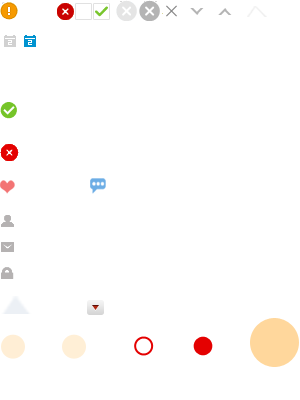
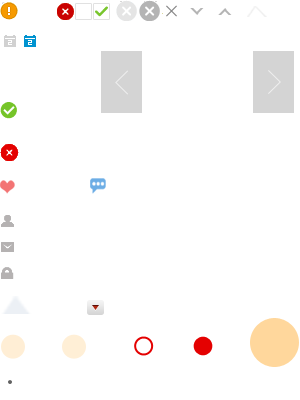
修改登录

Changed region(s): [[0.84, 0.12, 0.99, 0.3], [0.33, 0.12, 0.48, 0.3], [0.03, 0.93, 0.06, 0.96]]

diff --git a/public/assets/css/style.css b/public/assets/css/style.css
@@ -5,7 +5,7 @@
 .logo-wrapper{
     width: 100%;
     overflow: hidden;
-    background: #F1F1F1;
+    background: #f5f7fa;
     padding-top: 30px;
     margin: 0 auto 20px;
     height: 70px;
@@ -13,19 +13,35 @@
 .logo-wrapper .logo{
     width: 980px;
 }
+.login-bd{
+    width: 920px;
+    padding: 0px 30px 30px;
+    background: #ffffff;
+    overflow: hidden;
+}
+.login-hd{
+    width: 920px;
+    padding:20px 30px 10px;
+    background: #ffffff;
+    overflow: hidden;
+    font-size: 14px;
+}
+.login-hd span{
+    margin: 0 5px;
+}
 .left-side{
     width: 500px;
     height: 310px;
 }
 .login-form{
     width: 300px;
-    height: 310px;
+    min-height: 310px;
     border: 1px solid #EEEEEE;
     background: #FFFFFF;
 }
 .login-form .loginBar{
     overflow: hidden;
-     margin:20px ;
+     margin:20px 20px 0 ;
  }
 .login-form .title{
     background: #AF2812;
@@ -50,14 +66,34 @@
     display: inline-block;
     line-height: 24px;
 }
+.btn-l{
+    width: 125px;
+    height: 25px;
+    line-height: 25px;
+    border-radius: 3px;
+    text-align: center;
+    color: #ffffff;
+    background: #af2812;
+}
+.btn-r{
+    width: 125px;
+    height: 25px;
+    line-height: 25px;
+    border-radius: 3px;
+    text-align: center;
+    color: #333;
+    display: inline-block;
+    background: #d9d9d9;
+}
 .register-box{
     overflow: hidden;
-    padding: 20px;
+    padding: 15px;
     border-top: 1px solid #dddddd;
+    margin-top: 15px;
 }
 .register-box .signup{
     font-size: 14px;
-    color: #47AFFF;
+    color: #0137ff;
 }
 .register-box .registered{
     margin-top: 20px;
@@ -255,6 +291,7 @@
     float: left;
     margin-left: 10px;
     margin-bottom: 10px;
+    height: 316px;
 }
 .home-c dl dd .img-box{
     width: 130px;

diff --git a/public/assets/css/common.css b/public/assets/css/common.css
@@ -2,10 +2,10 @@
 body{
     font:12px/1.231 "微软雅黑","宋体",Helvetica,Arial,sans-serif;
     color: #333;
-    background: #F1F1F1;
+    background: #f5f7fa;
 }
 .b{
-    color:#379BE9;
+    color:#0137ff;
 }
 .r{
     color: #c10101;
@@ -268,8 +268,8 @@ textarea:focus,input:focus{
     font-size: 12px;
 }
 .btn-lg{
-    padding:8px 15px;
-    font-size: 14px;
+    padding:0px 33px;
+    font-size: 16px;
 }
 .btn-topUp {
     width: 90px;
@@ -407,10 +407,10 @@ table td p.tl{
     background-position: -44px -7px;
 }
 .icon-horn{
-    width: 19px;
+    width: 25px;
     height: 19px;
     vertical-align: middle;
-    background-position: -47px -44px;
+    background-position: -47px -42px;
 }
 .icon-phone{
      width: 22px;
@@ -686,6 +686,11 @@ table td p.tl{
     padding: 0 10px;
 }
 .progress-side dd{
+    width: 100%;
+    overflow: hidden;
+    margin-bottom: 8px;
+}
+.progress-side li{
     width: 100%;
     overflow: hidden;
     margin-bottom: 8px;
@@ -981,12 +986,9 @@ table td p.tl{
 .footer-wrapper{
     overflow: hidden;
     margin-top: 20px;
-    background: #fff;
 }
 .help-bg{
     width: 100%;
-    border-bottom: 2px solid #eeeeee;
-    border-top: 2px solid #eeeeee;
 }
 .footer-help {
     overflow: hidden;

diff --git a/public/assets/css/jquery.bxslider.css b/public/assets/css/jquery.bxslider.css
@@ -90,21 +90,19 @@
 /* DIRECTION CONTROLS (NEXT / PREV) */
 
 .bx-wrapper .bx-prev {
-	left: 10px;
-	background: url(../images/controls.png) no-repeat 0 -32px;
+    left: 0;
+	background: url("../images/icon-02.png") no-repeat -100px -54px;
 }
 
 .bx-wrapper .bx-next {
-	right: 10px;
-	background: url(../images/controls.png) no-repeat -43px -32px;
+    right: 0;
+	background: url("../images/icon-02.png") no-repeat -254px -54px;
 }
 
 .bx-wrapper .bx-prev:hover {
-	background-position: 0 0;
 }
 
 .bx-wrapper .bx-next:hover {
-	background-position: -43px 0;
 }
 
 .bx-wrapper .bx-controls-direction a {
@@ -112,8 +110,8 @@
 	top: 50%;
 	margin-top: -16px;
 	outline: 0;
-	width: 32px;
-	height: 32px;
+	width: 45px;
+	height: 59px;
 	text-indent: -9999px;
 	z-index: 9999;
 }

diff --git a/public/assets/css/header.css b/public/assets/css/header.css
@@ -9,6 +9,10 @@
     background: #FFFFFF;
     width: 740px;
 }
+.announced-news .title h3,.recommended .title h3{
+    font-size: 18px;
+    font-weight: normal;
+}
 .announced-news ul{
     overflow: hidden;
     border: 1px solid #eeeeee;
@@ -57,10 +61,18 @@
     height: 22px;
     line-height: 22px;
     padding:5px;
-    width: 205px;
+    width: 200px;
     overflow: hidden;
     white-space: nowrap;
-    text-overflow: ellipsis;
+}
+.notice ul li i{
+    height: 10px;
+    display: inline-block;
+    width: 10px;
+    background: url("../images/icon-02.png") no-repeat -8px -377px;
+}
+.notice ul li a{
+    font-size: 14px;
 }
 /*人气推荐开始*/
 .recommended{

diff --git a/fuel/app/views/index/home_orders.php b/fuel/app/views/index/home_orders.php
@@ -22,21 +22,21 @@
                         <h3 class="title-sm"><?php echo Html::anchor('m/'.$item->phase_id, '(第'.$phase->phase_id.'期) '.$phase->title);?></h3>
                         <span class="price">价值：<b><?php echo $phase->amount;?>.00</b></span>
                         <?php if ($phase->code == '') { ?>
-                            <dl class="progress-side">
-                                <dd>
+                            <ol class="progress-side">
+                                <li>
                                     <div class="progress">
                                         <div class="progress-bar" style="width:<?php echo $getProgress($phase);?>%">
                                         </div>
                                     </div>
-                                </dd>
-                                 <dd>
+                                </li>
+                                 <li>
                                     <span class="fl r"><?php echo $phase->joined;?></span>
                                     <span class="fr b"><?php echo $phase->remain;?></span>
-                                <dd>
+                                <li>
                                     <span class="fl">已参与人次</span>
                                     <span class="fr">剩余人次</span>
-                                </dd>
-                            </dl>
+                                </li>
+                            </ol>
                         <?php }else{ ?>
                             <div class="number">幸运乐拍码：<b class="y"><?php echo $phase->code;?></b></div>
                             <div class="datetime">揭晓时间：<?php echo date("Y-m-d H:i:s", $phase->opentime);?></div>

diff --git a/fuel/app/views/index/index.php b/fuel/app/views/index/index.php
@@ -51,7 +51,7 @@
                 <div class="title"><h3>乐拍公告 <span class="icon icon-horn"></span></h3></div>
                 <ul>
                     <?php foreach($notices() as $notice) { ?>
-                    <li><?php echo Html::anchor('/notice', $notice->title); ?></li>
+                    <li><i></i><?php echo Html::anchor('/notice', $notice->title); ?></li>
                     <?php } ?>
                 </ul>
             </div>
@@ -90,7 +90,7 @@
                             </dd>
                         </dl>
                         <div class="btn-group tc">
-                            <?php echo Html::anchor('m/'.$phase->id, '立即乐拍', ['rel' => 'nofollow','class'=>'btn btn-red']);?>
+                            <?php echo Html::anchor('m/'.$phase->id, '立即乐拍', ['rel' => 'nofollow','class'=>'btn btn-red btn-lg']);?>
                         </div>
                     </li>
                     <?php } ?>
@@ -147,7 +147,7 @@
                     </dd>
                 </dl>
                 <div class="btn-group tc">
-                    <?php echo Html::anchor('m/'.$phase->id, '立即乐拍', ['rel' => 'nofollow','class'=>'btn btn-red ']);?>
+                    <?php echo Html::anchor('m/'.$phase->id, '立即乐拍', ['rel' => 'nofollow','class'=>'btn btn-red btn-lg ']);?>
                 </div>
             </li>
             <?php } ?>

diff --git a/fuel/app/views/member/signin.php b/fuel/app/views/member/signin.php
@@ -18,7 +18,13 @@
     </div>
 </div>
 <!--中间内容开始-->
-<div class=" w">
+<div class="w">
+    <div class="login-hd">
+        <a href="" class="b fr">返回首页</a>
+        <span class="fr">|</span>
+        <a href="" class="b fr">帮助中心</a>
+    </div>
+    <div class="login-bd">
     <div class="left-side fl">
         广告图
     </div>
@@ -44,14 +50,20 @@
                    <span class="icon-password"></span>
                 </li>
                 <li>
-                    <button class="login btn btn-red fl" type="submit">登录</button>
                     <?php echo Html::anchor('forgot', '忘记密码?', array('class' => 'fr'));?>
                 </li>
             </ul>
+            <div class="btn-group">
+                <button class="login btn-l" type="submit">登录</button>
+            </div>
         </form>
         <div class="register-box">
-            还不是乐拍用户？<?php echo Html::anchor('signup', '快速注册', array('class' => 'signup'));?>
+            <p>还不是乐拍用户？马上注册吧</p>
+            <div class="btn-group">
+                 <?php echo Html::anchor('signup', '快速注册', array('class'=>'btn-r signup'));?>
+            </div>
         </div>
+    </div>
     </div>
 </div>
 <!--中间内容结束-->

diff --git a/fuel/app/views/items/view.php b/fuel/app/views/items/view.php
@@ -189,7 +189,7 @@
                 </div>
             </div>
         </div>
-    </div>
+</div>
 <div class="wrapper w">
     <!--商品信息开始-->
 	<div class="bd w">
